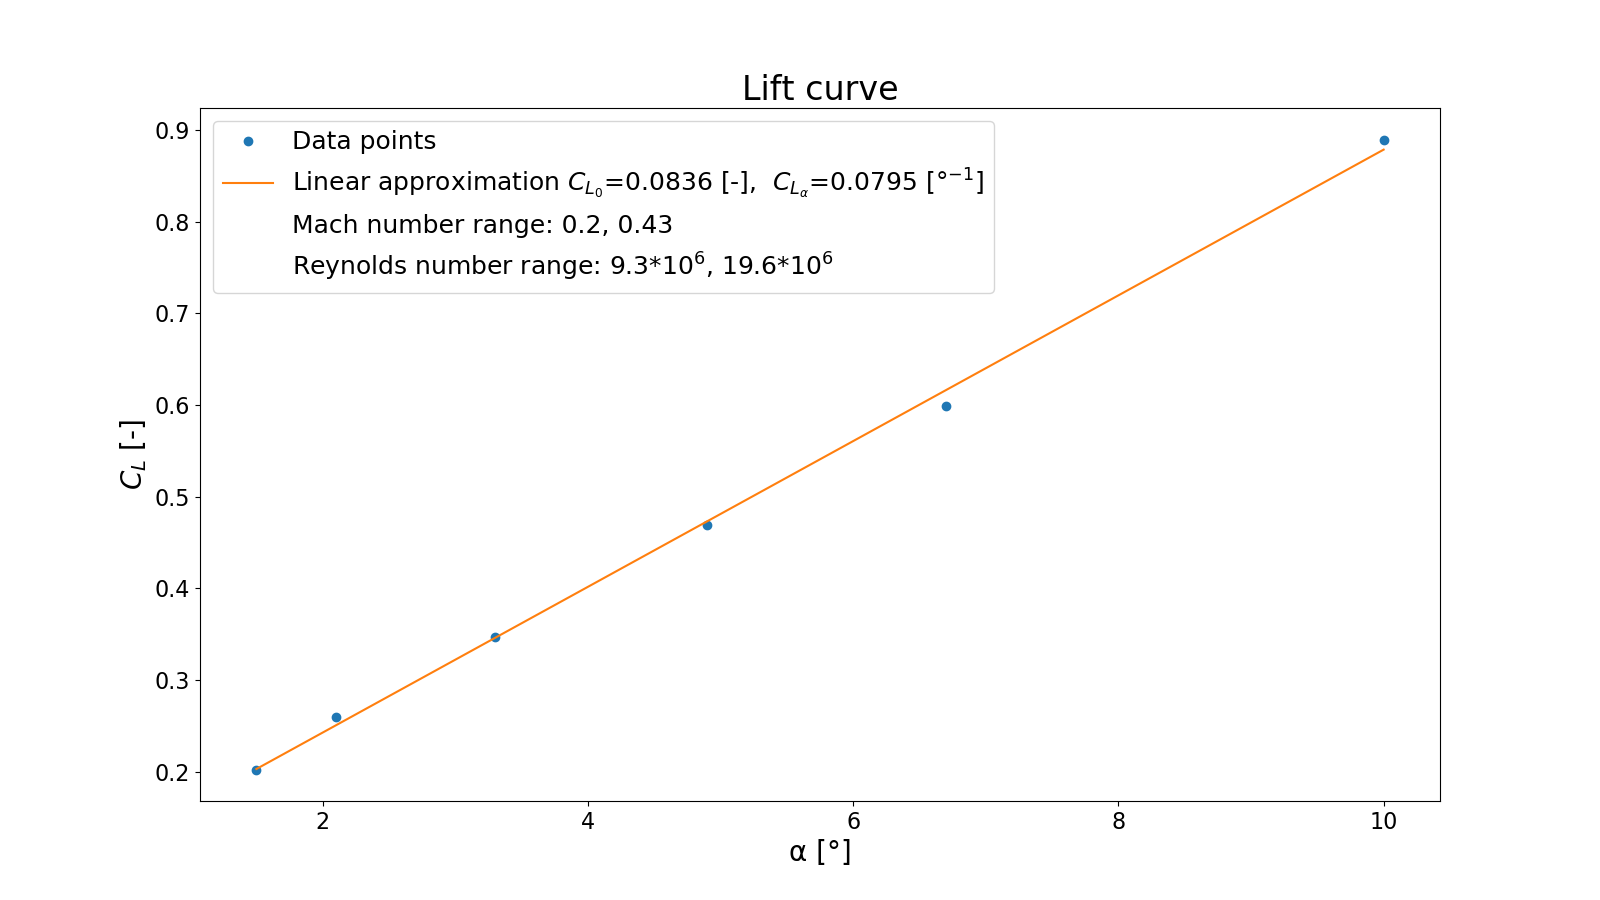
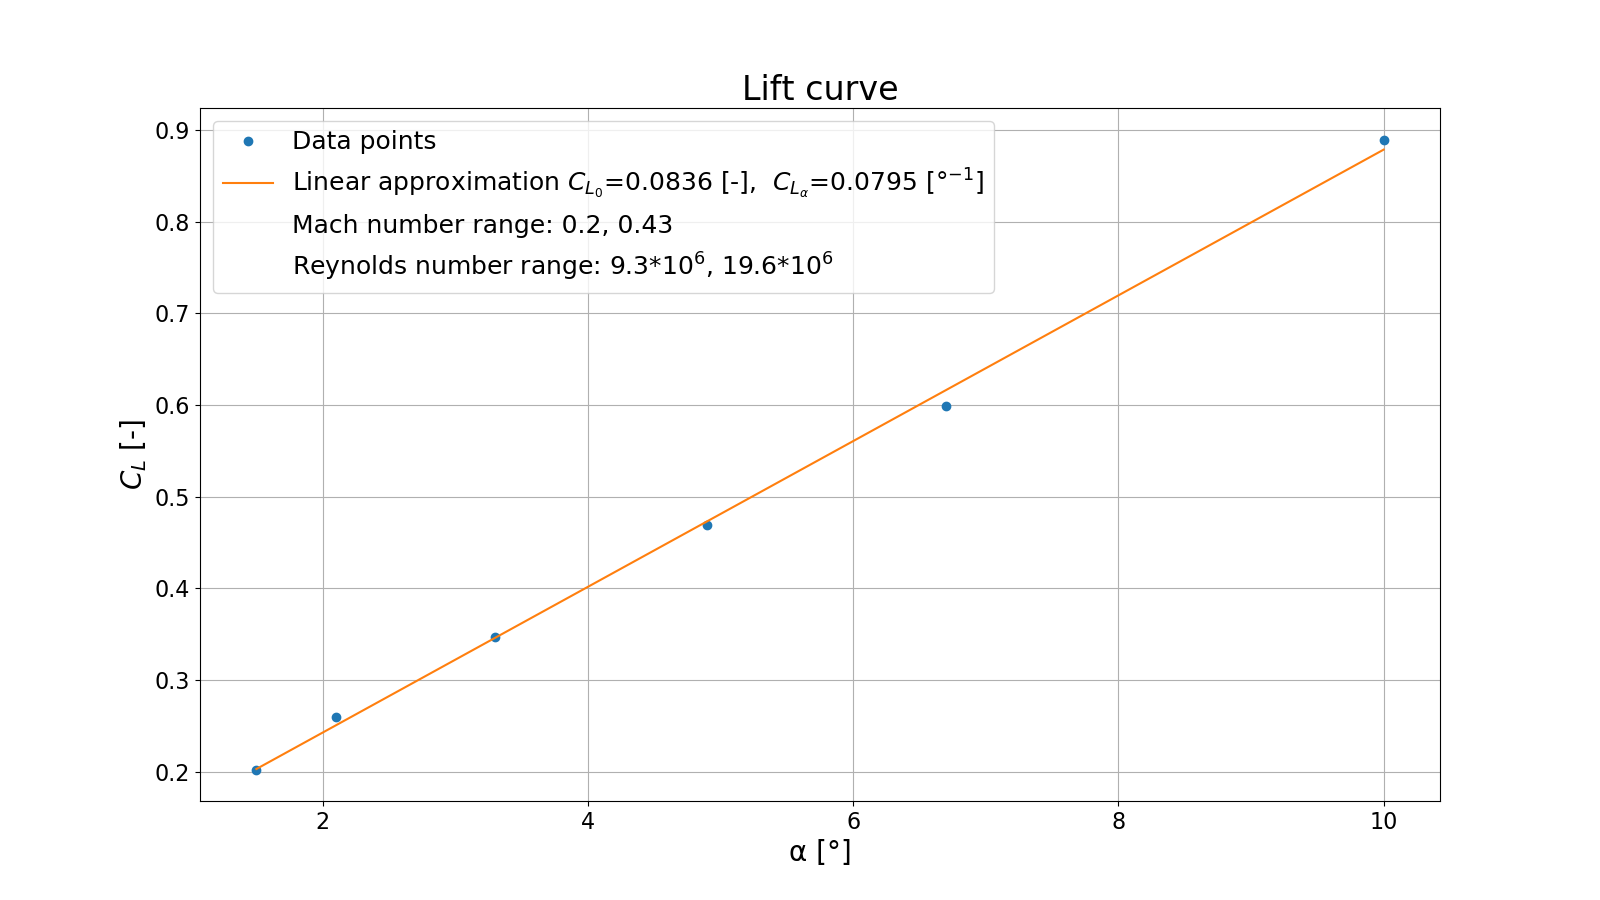
Include axis and grid in plots

diff --git a/Data regression.py b/Data regression.py
@@ -17,12 +17,12 @@ FeVe=False
 save=False
 
 #CNalpha=True
-CN_CT=True
+#CN_CT=True
 #elevatortrimcurvea=True
 #elevatortrimcurvev=True
 #FeVe=True
 
-#save=True
+save=True
 
 def polyfitter(x1,y1,degree):
     outlierchecks=5
@@ -102,7 +102,7 @@ def polyfitter2(x1,y1):
     return x1,y1,x,y,coeff
 
 
-workbook = xlrd.open_workbook('REFERENCE_Post_Flight_Datasheet.xlsx')
+workbook = xlrd.open_workbook('Post_Flight_Datasheet.xlsx')
 
 sheet = workbook.sheet_by_name('Sheet1')
 
@@ -125,7 +125,7 @@ for i in range(6):####change to 7 for real data
 
 
 # fix thrust.exe singularity at 5th line
-hp1[4]=hp1[4]*1.000001
+#hp1[4]=hp1[4]*1.000001
 #IAS1[4]=IAS1[4]*1.01
 #a1[4]=a1[4]*1.01
 #FFl1[4]=FFl1[4]*1.01
@@ -263,6 +263,9 @@ width=16
 height=width*9/16
 plt.figure(figsize=(width,height))
 plt.tick_params(axis='both', labelsize=16)
+plt.grid(True, which='both')
+
+
 if CNalpha:
     degree=1
     polyfits=polyfitter(a1,CN1,degree)
@@ -321,6 +324,7 @@ if elevatortrimcurvea:
     plt.xlabel('α [°]',fontsize=20)
     plt.ylabel('$δ_{e_{eq}}^\star$ [°]',fontsize=20)
     plt.legend(loc='upper left',fontsize=18)
+    plt.axhline(y=0, color='k')
     if save:
         plt.savefig('Plots/elevtrimalpha')
 
@@ -333,7 +337,8 @@ if elevatortrimcurvev:
     plt.title('Elevator trim curve',fontsize=24)
     plt.xlabel('$\~V_e$ [m/s]',fontsize=20)
     plt.ylabel('$δ_{e_{eq}}^\star$ [°]',fontsize=20)
-    plt.legend(loc='lower left',fontsize=18)
+    plt.legend(loc='upper right',fontsize=18)
+    plt.axhline(y=0, color='k')
     if save:
         plt.savefig('Plots/elevtrimV')
 
@@ -347,12 +352,13 @@ if FeVe:
     plt.xlabel('$\~V_e$ [m/s]',fontsize=20)
     plt.ylabel('$F_e^\star$ [N]',fontsize=20)
     plt.legend(loc='lower left',fontsize=18)
+    plt.axhline(y=0, color='k')
     if save:
         plt.savefig('Plots/FeVe')
 
+plt.plot(deeqstar,Festar)
 
 
-plt.grid()
 plt.show()
 
 
